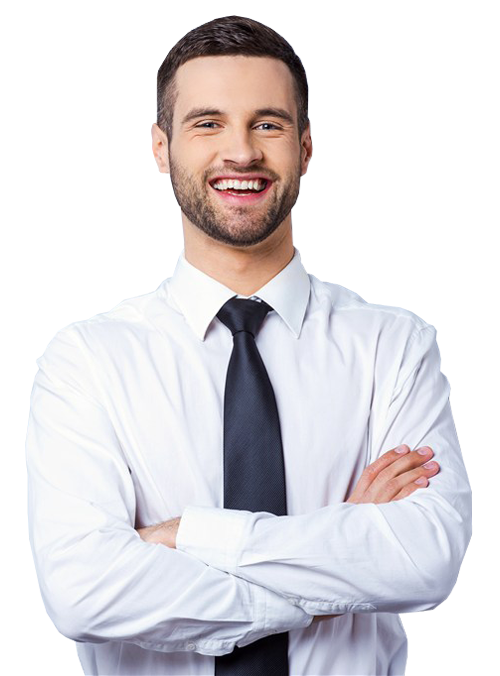
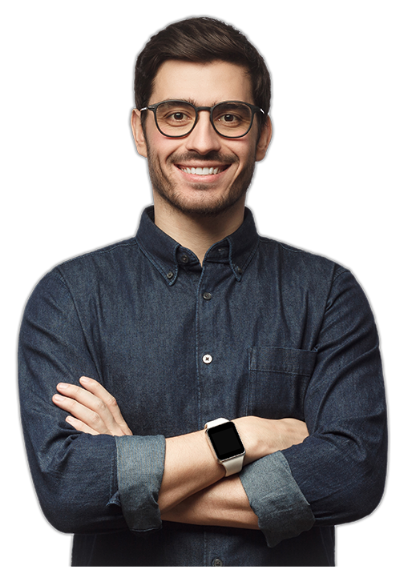
slider part compelit

diff --git a/index.html b/index.html
@@ -258,7 +258,94 @@
     </div>
   </section>
   <!-- portfollio part end -->
-  
+  <!-- slider part start -->
+  <section class="slider">
+    <div class="container">
+      <div class="row">
+        <div class="col-lg-12 col-md-12 col-sm-12 col-12">
+          <div id="carouselExampleIndicators" class="carousel slide" data-ride="carousel">
+            <ol class="carousel-indicators">
+              <li data-target="#carouselExampleIndicators" data-slide-to="0" class="active"></li>
+              <li data-target="#carouselExampleIndicators" data-slide-to="1"></li>
+              <li data-target="#carouselExampleIndicators" data-slide-to="2"></li>
+            </ol>
+            <div class="carousel-inner">
+              <!-- slider 1 -->
+              <div class="carousel-item active">
+                <div class="row">
+                  <!-- Its for slider content -->
+                  <div class="col-lg-5 col-md-5 col-sm-5 col-5">
+                    <div class="slider-content">
+                      <i class="fas fa-quote-left"></i>
+                      <p>Lorem ipsum dolor sit amet, consectetuer adipiscing elit, sed diam nonummy nibh euismod tincidunt ut laoreet dolore magna aliquam erat volutpat. Ut wisi enim ad minim veniam, quis nostrud exerci tation ullamcorper suscipit lobortis nisl ut aliquipex ea commodo consequat.</p>
+                    </div>
+                    <div class="sing">
+                      <img src="img/sign.png" alt="Imge Not Found" class="ing-fluid">
+                      <h5>Deniel Croft</h5>
+                      <p>Creative Designer, Levy</p>
+                    </div>
+                  </div>
+                  <!-- Its for slider img -->
+                  <div class="col-lg-7 col-md-7 col-sm-7 col-7">
+                    <div class="slider-img">
+                      <img src="img/slide01.png" alt="Imge Not Found" class="img-fluid">
+                    </div>
+                  </div>
+                </div>
+              </div>
+              <!-- slider 2 -->
+              <div class="carousel-item">
+                <div class="row">
+                  <!-- Its for slider content -->
+                  <div class="col-lg-5 col-md-5 col-sm-5 col-5">
+                    <div class="slider-content">
+                      <i class="fas fa-quote-left"></i>
+                      <p>Lorem ipsum dolor sit amet, consectetuer adipiscing elit, sed diam nonummy nibh euismod tincidunt ut laoreet dolore magna aliquam erat volutpat. Ut wisi enim ad minim veniam, quis nostrud exerci tation ullamcorper suscipit lobortis nisl ut aliquipex ea commodo consequat.</p>
+                    </div>
+                    <div class="sing">
+                      <img src="img/sign.png" alt="Imge Not Found" class="ing-fluid">
+                      <h5>Deniel Croft</h5>
+                      <p>Creative Designer, Levy</p>
+                    </div>
+                  </div>
+                  <!-- Its for slider img -->
+                  <div class="col-lg-7 col-md-7 col-sm-7 col-7">
+                    <div class="slider-img">
+                      <img src="img/slide02.png" alt="Imge Not Found" class="img-fluid">
+                    </div>
+                  </div>
+                </div>
+              </div>
+              <!-- slider 3 -->
+              <div class="carousel-item">
+                <div class="row">
+                  <!-- Its for slider content -->
+                  <div class="col-lg-5 col-md-5 col-sm-5 col-5">
+                    <div class="slider-content">
+                      <i class="fas fa-quote-left"></i>
+                      <p>Lorem ipsum dolor sit amet, consectetuer adipiscing elit, sed diam nonummy nibh euismod tincidunt ut laoreet dolore magna aliquam erat volutpat. Ut wisi enim ad minim veniam, quis nostrud exerci tation ullamcorper suscipit lobortis nisl ut aliquipex ea commodo consequat.</p>
+                    </div>
+                    <div class="sing">
+                      <img src="img/sign.png" alt="Imge Not Found" class="ing-fluid">
+                      <h5>Deniel Croft</h5>
+                      <p>Creative Designer, Levy</p>
+                    </div>
+                  </div>
+                  <!-- Its for slider img -->
+                  <div class="col-lg-7 col-md-7 col-sm-7 col-7">
+                    <div class="slider-img">
+                      <img src="img/slide03.png" alt="Imge Not Found" class="img-fluid">
+                    </div>
+                  </div>
+                </div>
+              </div>
+            </div>
+          </div>
+        </div>
+      </div>
+    </div>
+  </section>
+  <!-- slider part end -->
 
 
 

diff --git a/css/responsive.css b/css/responsive.css
@@ -109,6 +109,29 @@
         width: 105%;
     }
     /* portfollio part end */
+    /* slider part start */
+    .slider {
+        padding: 35px 0px;
+    }
+    .slider-content i {
+        font-size: 35px;
+    }
+    .slider-content p {
+        font-size: 12px;
+        padding: 10px 0px;
+        line-height: 21px;
+        margin-bottom: 0px;
+    }
+    .sing h5 {
+        font-size: 14px;
+        padding-top: 10px;
+    }
+    .sing p {
+       
+        font-size: 10px;
+         
+    }
+    /* slider part end */
 }
 
 
@@ -232,6 +255,32 @@
             width: 106%;
         }
         /* portfollio part end */
+        /* slider part start */
+        .slider {
+            padding: 70px 0px;
+        }
+        .slider-content i {
+            font-size: 40px;
+        }
+        .slider-content p {
+            font-size: 14px;
+            padding: 15px 0px;
+            line-height: 25px;
+            margin-bottom: 0px;
+        }
+        .sing img {
+            width: 60%;
+        }
+        .sing h5 {
+            font-size: 16px;
+            padding-top: 15px;
+        }
+        .sing p {
+           
+            font-size: 12px;
+           
+        }
+        /* slider part end */
 }
 
  /* Medium devices (tablets, 768px and up) */
@@ -307,6 +356,24 @@
         width: 105%;
     }
     /* portfollio part end */
+    /* slider part strat */
+    .slider {
+        padding: 100px 0px;
+    }
+    .slider-content i {
+        font-size: 48px;
+    }
+    .slider-content p {
+        font-size: 14px;
+        padding: 30px 0px;
+        margin-bottom: 0px;
+        line-height: 25px;
+
+    }
+    .sing h5 {
+        padding-top: 20px;
+    }
+    /* slider part end */
  }
 
  /* Large devices (desktops, 992px and up) */

diff --git a/style.css b/style.css
@@ -221,6 +221,42 @@ html {
     width: 102%;
 }
 /* portfollio part end */
+/* slider part start */ 
+.slider{
+    padding: 140px 0px ;
+    background-color: #64cbc0;
+}
+.slider-content i {
+	color: #317688;
+	font-size: 55px;
+}
+.slider-content p {
+	color: #142926;
+	font-family: 'Roboto', sans-serif;
+	font-size: 16px;
+	padding: 50px 0px;
+	line-height: 30px;
+}
+.sing img{
+    width: 40%;
+}
+.sing h5{
+	color: #1e3d39;
+	font-family: 'Roboto', sans-serif;
+	font-weight: 700;
+	font-size: 18px;
+	padding-top: 40px;
+}
+.sing p {
+	color: #31635d;
+    font-size: 14px;
+    font-family: 'Roboto', sans-serif;
+}
+.carousel-indicators li{
+    background-color: transparent;
+}
+
+/* slider part end */
  
 
 
